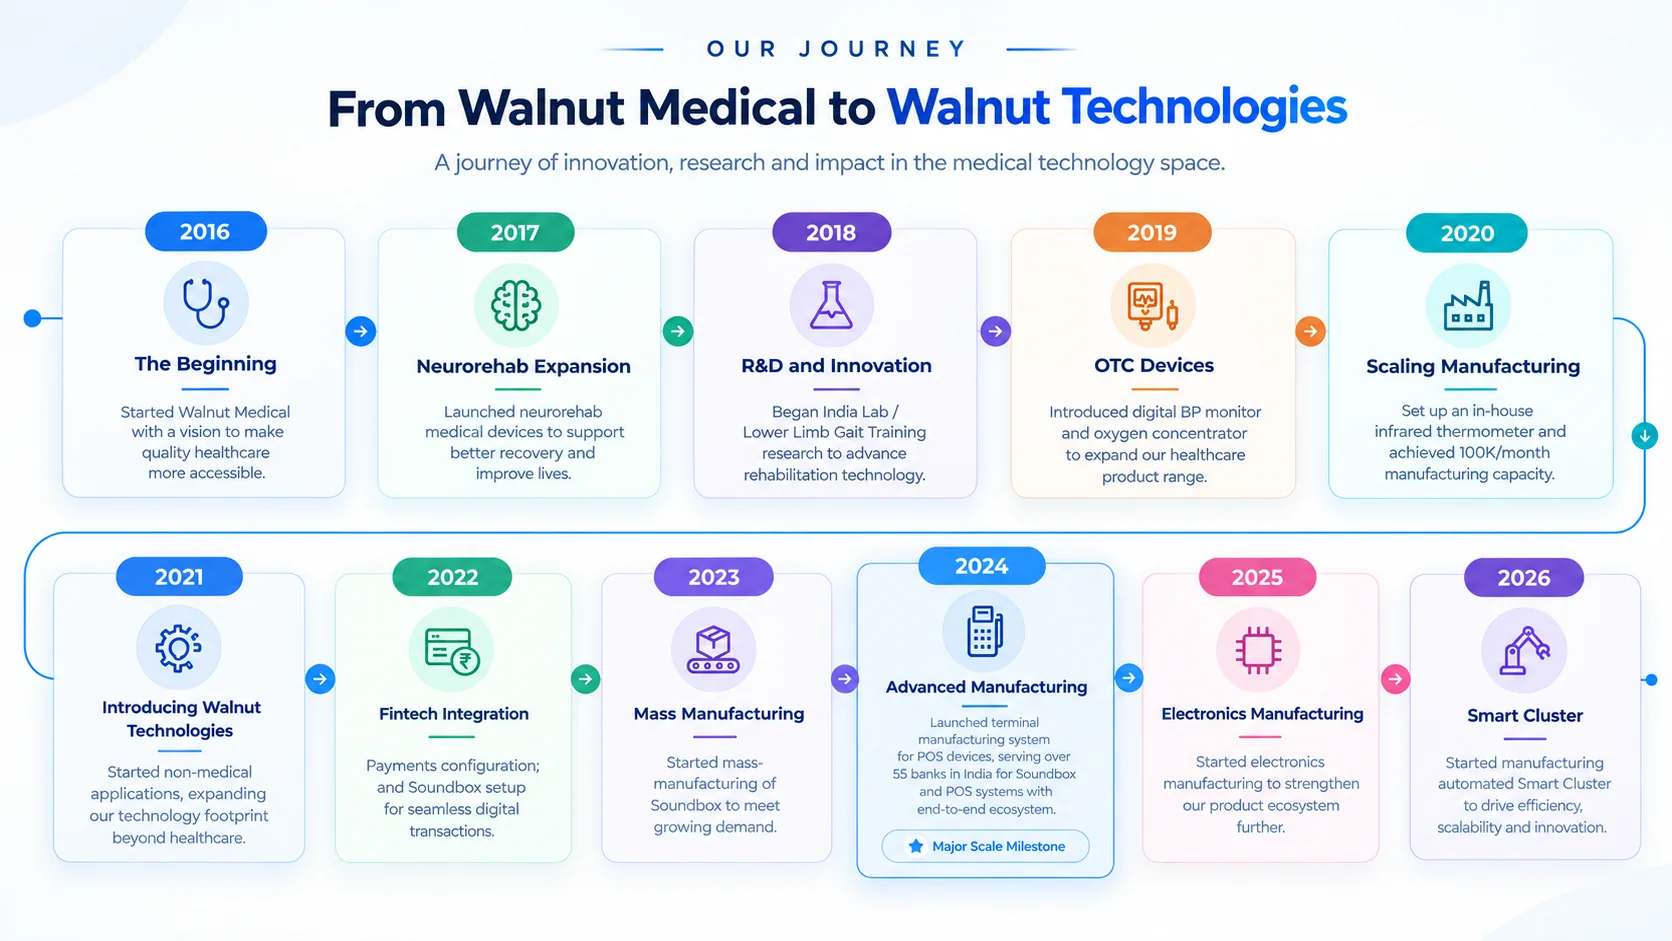
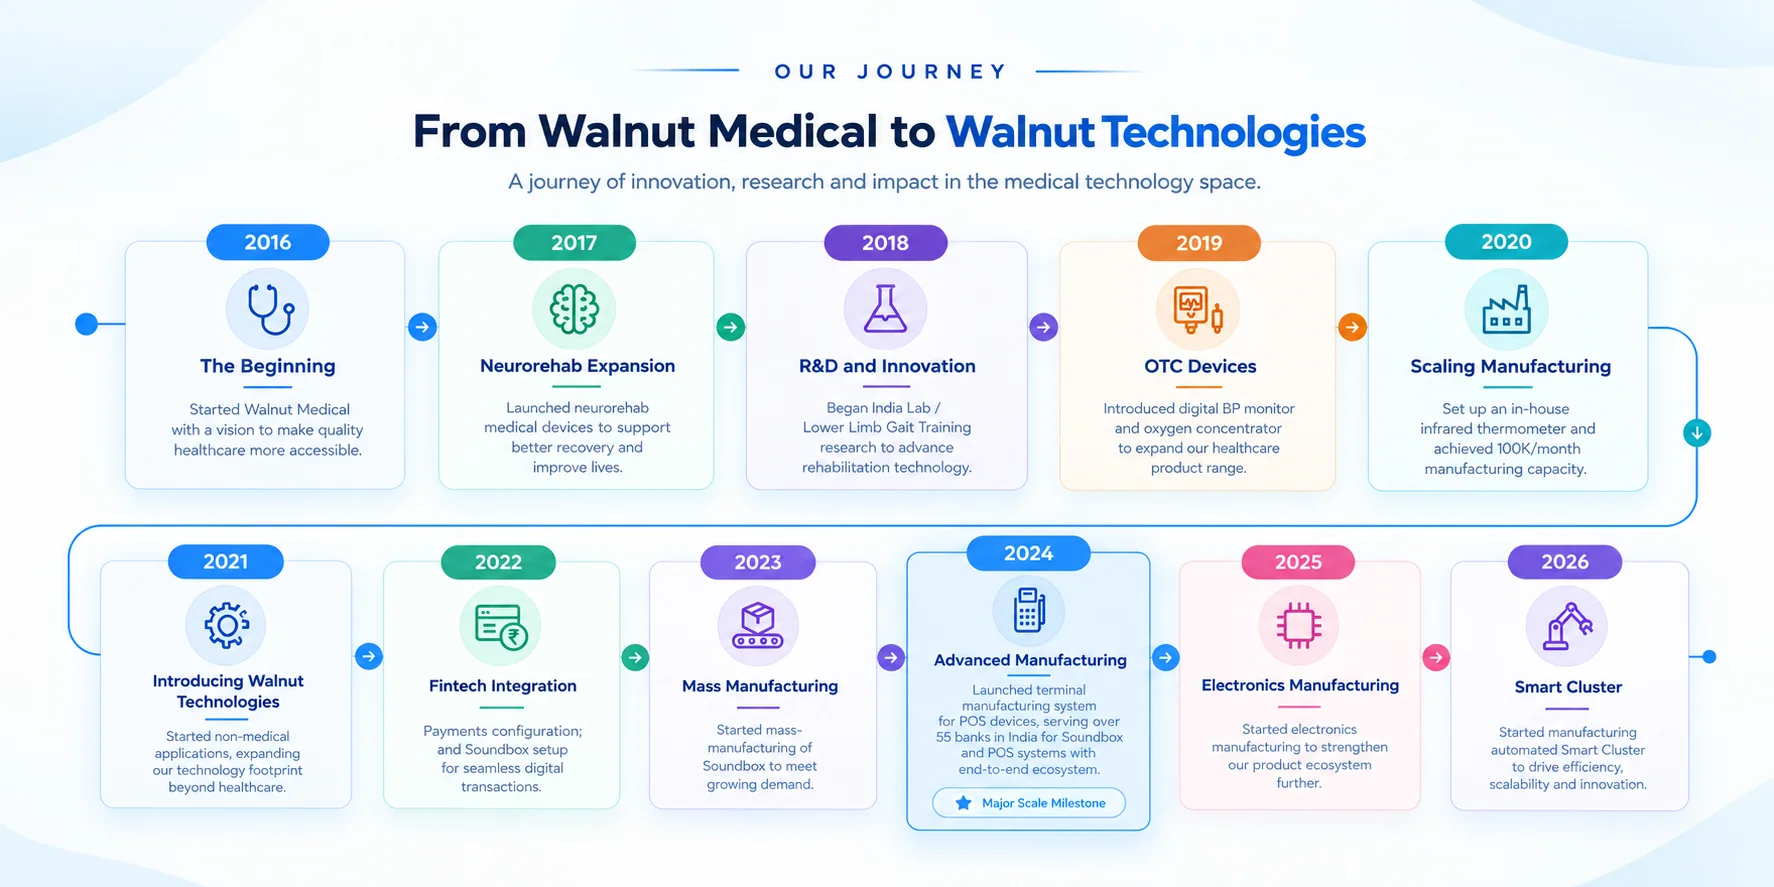
fix: responsive fixes, journey image update, reduce section spacing
- Convert updated journey PNG to WebP
- Add overlay scrollbar to fix Windows white space
- Set #root to full viewport width
- Add overflow-x hidden on html/body
- Make hero section edge-to-edge
- Reduce padding between Clients & CTA sections
- Remove journey section constraints for full-width image

diff --git a/src/pages/HomePage.jsx b/src/pages/HomePage.jsx
@@ -44,7 +44,7 @@ function JourneySection() {
   return (
     <section className="relative overflow-hidden" ref={ref}>
       {/* Production Process - Hexagonal Grid */}
-      <div className="bg-white py-6 md:py-8 -mx-4 sm:-mx-6 lg:-mx-8">
+      <div className="bg-white py-2 md:py-3 flex-shrink-0">
         <div className="w-full px-2">
           
           <motion.div
@@ -139,17 +139,16 @@ function JourneySection() {
       </div>
 
       {/* Journey Section */}
-      <div className="bg-gradient-to-br from-slate-50 via-white to-slate-50 py-2 md:py-3">
-        <div className="max-w-7xl mx-auto px-4 sm:px-6 lg:px-8">
+      <div className="bg-gradient-to-br from-slate-50 via-white to-slate-50 py-4 md:py-6">
+        <div className="w-full">
           
-          {/* Journey Image */}
           <motion.div
             initial={{ opacity: 0, y: 20 }}
             animate={isInView ? { opacity: 1, y: 0 } : {}}
             transition={{ duration: 0.6, delay: 0.5 }}
             className="rounded-lg overflow-hidden"
           >
-            <img src="/journey.webp" alt="Our Journey" className="w-full h-full object-cover" />
+            <img src="/journey.webp" alt="Our Journey" className="w-full h-auto object-contain scale-95" />
           </motion.div>
         </div>
       </div>
@@ -324,7 +323,7 @@ function ClientsCertifications() {
   ];
 
   return (
-    <section className="py-16 md:py-20 bg-white">
+    <section className="py-10 md:py-12 bg-white">
       <div ref={ref} className="max-w-7xl mx-auto px-4 sm:px-6 lg:px-8">
         <motion.div
           initial={{ opacity: 0, y: 15 }}
@@ -422,7 +421,7 @@ function CTASection() {
   ];
 
   return (
-    <section id="cta-section" className="py-16 md:py-20 bg-white">
+    <section id="cta-section" className="py-10 md:py-12 bg-white">
       <div ref={ref} className="max-w-7xl mx-auto px-4 sm:px-6 lg:px-8">
         <div className="relative rounded-3xl overflow-hidden bg-gradient-to-br from-slate-50 via-white to-blue-50 border border-slate-200/60 shadow-sm">
           <div className="absolute top-0 right-0 w-72 h-72 bg-blue-100/40 rounded-full blur-3xl -translate-y-1/2 translate-x-1/3" />

diff --git a/src/index.css b/src/index.css
@@ -15,6 +15,9 @@
     -webkit-text-size-adjust: 100%;
     -moz-text-size-adjust: 100%;
     text-size-adjust: 100%;
+    overflow-x: hidden;
+    scrollbar-width: thin;
+    scrollbar-color: rgba(100,116,139,0.3) transparent;
   }
 
   body {
@@ -22,6 +25,25 @@
     overflow-x: hidden;
     min-height: 100vh;
     min-height: 100dvh;
+    margin: 0;
+    padding: 0;
+  }
+
+  html::-webkit-scrollbar {
+    width: 6px;
+  }
+  html::-webkit-scrollbar-track {
+    background: transparent;
+  }
+  html::-webkit-scrollbar-thumb {
+    background: rgba(100,116,139,0.3);
+    border-radius: 3px;
+  }
+
+  #root {
+    overflow-x: hidden;
+    width: 100vw;
+    max-width: 100vw;
   }
 
   img, video, svg {

diff --git a/src/components/Hero.jsx b/src/components/Hero.jsx
@@ -18,7 +18,7 @@ export default function Hero({ onOpenQuote, onOpenSchedule }) {
   const navigate = useNavigate();
 
   return (
-    <section id="hero" className="relative min-h-screen flex flex-col overflow-hidden">
+    <section id="hero" className="relative min-h-screen flex flex-col overflow-hidden w-full">
       <div className="absolute inset-0">
         <img
           src="/home background.webp"
